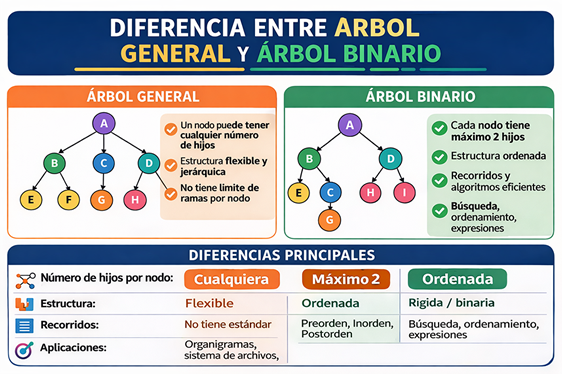
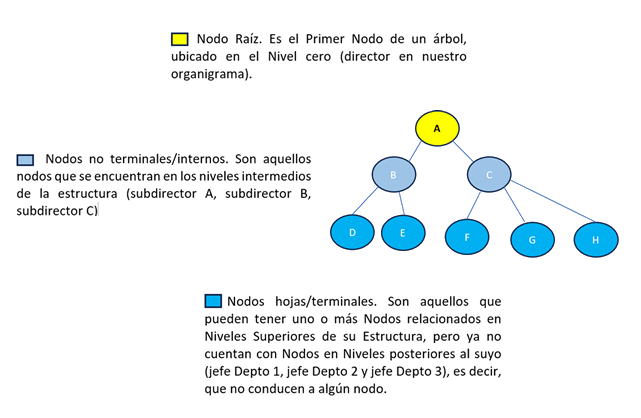
COMMIT 3

diff --git a/UNIDAD_3/3.1.html b/UNIDAD_3/3.1.html
@@ -701,7 +701,7 @@
                 <span>3. Estructuras de datos no lineales</span>
             </div>
             <h1>3. Estructuras de datos no lineales</h1>
-            <div class="subtitle">Los árboles binarios permiten organizar la información de forma jerárquica o interconectada.</div>            
+            <div class="subtitle">Se encarga de organizan la información de una forma multidimensional o jerárquica, lo que permite tener relaciones más complejas.</div>            
         </header>
         
         <div class="intro">
@@ -727,48 +727,35 @@
                 <div class="section-title">Transformación de árboles generales a binarios </div>
             </div>
             <div class="content">
-                <p>La transformación de árboles generales a árboles binarios es una técnica utilizada en las estructuras de datos para representar un árbol con cualquier número
-                   de hijos por nodo mediante una estructura binaria, en la cual cada nodo tiene como máximo dos hijos. Esta conversión conserva la información y la jerarquía del árbol original, cambiando únicamente su forma de representación para facilitar su implementación en sistemas computacionales.</p>
-                <p>El método más común para realizar esta transformación es la representación de “hijo izquierdo - hermano derecho”. En este enfoque, el primer hijo de un nodo en el árbol general se convierte en su hijo izquierdo en el árbol binario, mientras que sus hermanos se enlazan mediante
-                   punteros derechos. Esta técnica permite mantener la relación entre nodos y aplicar algoritmos de recorrido propios de los árboles binarios (Goodrich, Tamassia & Goldwasser, 2014).</p>
-                <p>Entre las principales ventajas de esta transformación se encuentra la optimización en el uso de memoria y la simplificación de algoritmos para el procesamiento de estructuras jerárquicas. No obstante, la interpretación visual puede resultar menos intuitiva en comparación con el árbol
-                   general original. A pesar de ello, su uso es frecuente en áreas como compiladores y sistemas de archivos, donde se requiere eficiencia y uniformidad en la representación de datos.</p>
-                <p></p>
-                <h4>Árbol general</h4>
-                <ul>
-                    <li>Tiene<strong>más de dos hijos por nodo (sin límite fijo).</strong></li>
-                    <li>Presenta una<strong>estructura flexible y adaptable.</strong></li>
-                    <li>Su implementación<strong>es más compleja (puede requerir listas o múltiples enlaces).</strong></li>
-                    <li>Se utiliza en<strong>estructuras jerárquicas reales como sistemas de archivos o organigramas.</strong></li>
-                    <li>No cuenta con recorridos estándar universales definidos.</li>
-                    <li>Su representación es<strong>más natural para problemas del mundo real.</strong></li>
-                </ul>
-
-                <h4>Árbol binario</h4>
-                <ul>
-                    <li>Tiene<strong> máximo dos hijos por nodo (izquierdo y derecho).</strong></li>
-                    <li>Presenta una<strong> estructura rígida y ordenada.</strong></li>
-                    <li>Su implementacion es <strong>más sencilla (dos referencias por nodo).</strong></li>
-                    <li>Permite recorridos definidos como<strong> preorden, inorden y postorden.</strong></li>
-                    <li>Se utiliza en<strong>algoritmos eficientes como búsqueda y ordenamiento.</strong></li>
-                    <li>Es base para estructuras como <strong>árboles AVL, heaps y árboles de búsqueda binaria.</strong></li>
-                </ul>
-
-                <p>Las diferencias entre un árbol general y árbol binario radica en la cantidad de hijos que puede tener cada nodo y en la forma en que se organiza su estructura: mientras que el árbol general permite que un nodo tenga cualquier número de hijos,
-                   ofreciendo mayor flexibilidad para representar jerarquías complejas, el árbol binario limita a cada nodo a un máximo de dos hijos (izquierdo y derecho), lo que lo hace más estructurado, sencillo de implementar y eficiente
-                   para aplicar algoritmos de búsqueda y recorrido.</p>
+                <p>Al hablar de un árbol general, en el contexto de estructuras de datos, nos referimos a una estructura no lineal que puede ser utilizada para representar y organizar jerárquicamente la información.</p>
+                <p>Considera el siguiente organigrama:</p>
 
                    <div class="figure-container">
-                    <div class="figure-caption">Figura 2</div>
+                    <div class="figure-caption">Organigrama_1</div>
                     <div class="figure-caption">Transformación de árboles generales a binarios</div>
                     <div class="figura">
                         <img src="FIGURA2.png" alt="Transformación de árboles generales a binarios" class="imagen-figura1"/>
                     </div>
-                    <div class="figure-caption">Nota: Imagen generada por inteligencia artificial. Tomado de OpenAI (2026)</div>
+                    <div class="figure-caption">Nota: Imagen </div>
                 </div>
-                <p>Por lo que el árbol general como el árbol binario son estructuras fundamentales en la organización de datos, pero su elección depende del problema que se desea resolver. El árbol general destaca por su flexibilidad al permitir múltiples hijos,
-                   lo que lo hace ideal para representar jerarquías complejas del mundo real. Por otro lado, el árbol binario ofrece una estructura más limitada pero eficiente, facilitando la implementación de algoritmos y optimizando procesos como la búsqueda y
-                   el ordenamiento. En este sentido, comprender sus diferencias y ventajas permite seleccionar la estructura más adecuada, logrando soluciones más eficientes y bien organizadas en el desarrollo de sistemas.</p>
+                <p>Como podrás ver, en cada nivel se han dispuesto elementos que están relacionados entre sí y representan un objeto o concepto del mundo real, por lo tanto, pueden contener una etiqueta y/o información adicional. En el caso del árbol genealógico, los elementos
+                   básicos que lo constituyen son las personas integrantes de una familia que se relacionan por medio de un lazo familiar y en el caso del organigrama son personas que laboran en una empresa con una relación jerárquica jefe-empleado entre ellas.  A estos elementos
+                   los definiremos como Nodos y Vértices que unen los nodos, por lo tanto, un Árbol será entonces un conjunto de estos nodos/vértices.</p>
+                <p>De acuerdo con lo anterior, se estblece la identificación de: </p> 
+                <h3></h3>
+                <li>Un árbol puede estar vacío (No tener Nodos).</li>
+                <li>Un árbol no vacío puede constar de un solo elemento (Lo denominaremos nodo raíz).</li>
+                <li>Un árbol no vacío puede constar de un nodo raíz, conectado a otros nodos.</li> 
+
+                <p>Por lo que se se puede distinguir diferentes tipos de Nodos, como se muestra en la siguiente figura:</p> 
+
+                <div class="figure-container">
+                        <div class="figure-caption">Figura 2</div>
+                        <div class="figure-caption">Tipos de nodos en un árbol</div>
+                        <div class="figura">
+                            <img src="FIGURA2.png" alt="Tipos de nodos en un árbol" class="imagen-figura1"/>
+                        </div>
+                        <div class="figure-caption">Nota: </div>                
             </div>
         </div>
         